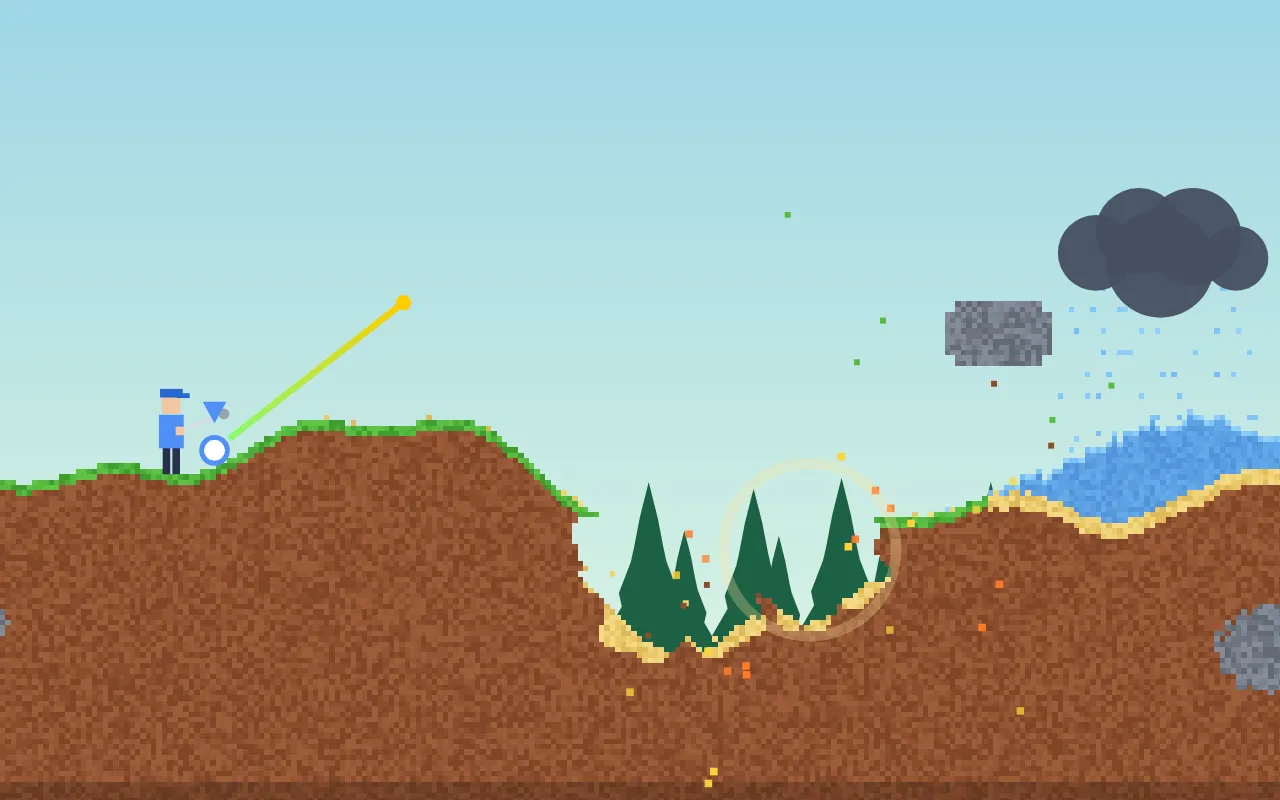
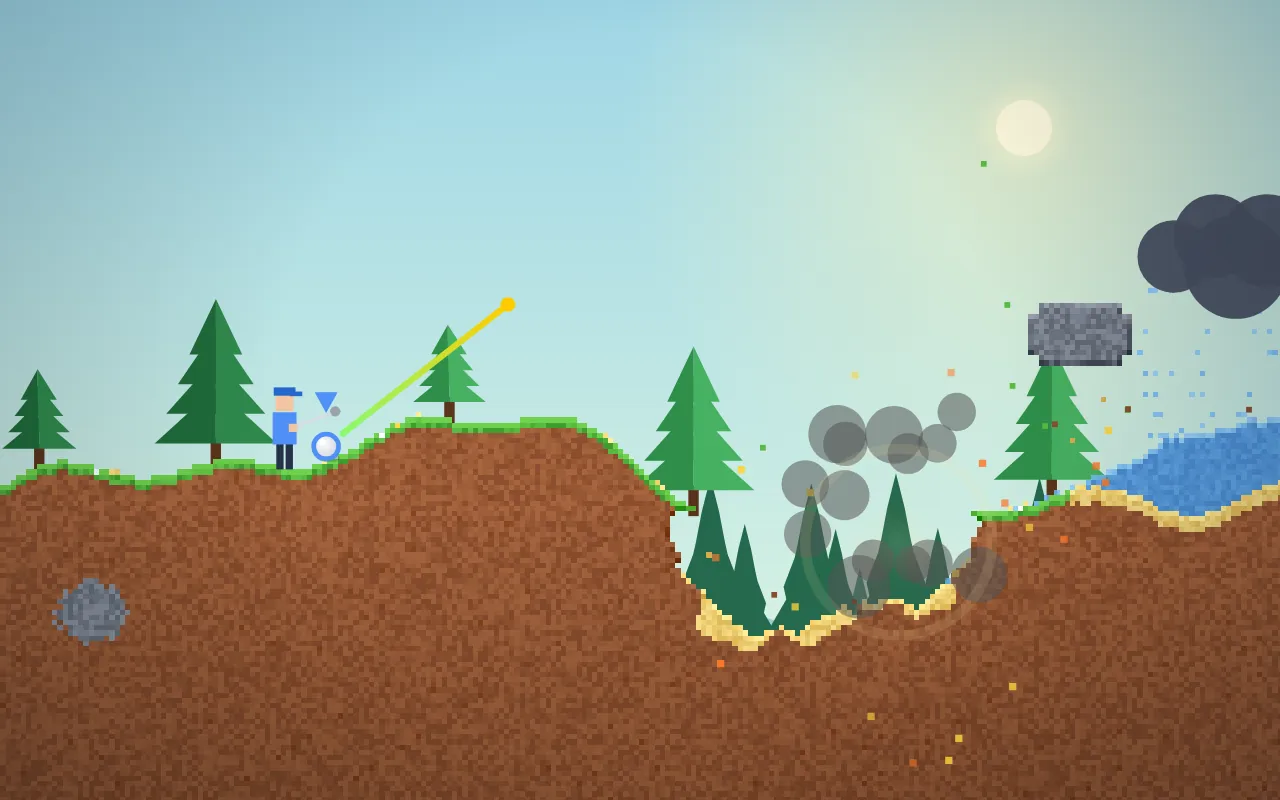
Sabotage-Golf: bessere Grafik (Terrain-Schattierung, Bäume, Sonne, Rauch, Ballspur)
Claude-Session: https://claude.ai/code/session_01YNm1FTXR8FrNy9XSTLjirF

diff --git a/games/sabotage-golf/index.html b/games/sabotage-golf/index.html
@@ -175,14 +175,42 @@ PAL[PAD] = [C(255, 93, 143), C(255, 210, 58), C(255, 93, 143), C(255, 210, 58)];
 PAL[WATER] = [C(52, 130, 224, 190), C(58, 138, 230, 190), C(46, 122, 214, 195), C(62, 146, 236, 185)];
 PAL.wtop = [C(120, 190, 250, 215), C(132, 198, 252, 215), C(110, 182, 246, 215), C(140, 204, 255, 210)];
 
+function adj(c, d) {
+  const r = Math.max(0, Math.min(255, (c & 255) + d)), g = Math.max(0, Math.min(255, ((c >> 8) & 255) + d)), b = Math.max(0, Math.min(255, ((c >> 16) & 255) + d));
+  return ((c & 0xff000000) | (b << 16) | (g << 8) | r) >>> 0;
+}
+const DROW = [];
+for (let y = 0; y < H; y++) {
+  const f = Math.max(.5, Math.min(1.08, 1.1 - (y - 140) / 150 * .55)), row = [];
+  for (const d of [[0, 0, 0], [10, 8, 6], [-9, -7, -5], [17, 14, 10]]) row.push(C(Math.min(255, (138 + d[0]) * f), Math.min(255, (80 + d[1]) * f), Math.min(255, (48 + d[2]) * f)));
+  DROW.push(row);
+}
 function colorOf(i) {
   const m = mat[i];
   if (m === AIR) return 0;
-  const v = vari[i];
-  if (m === WATER) return (i >= W && mat[i - W] === WATER) ? PAL[WATER][v] : PAL.wtop[v];
-  if (m === DIRT) return ((i / W) | 0) >= 196 ? PAL.dirt2[v] : PAL[DIRT][v];
-  if (m === PAD) return PAL[PAD][((i % W) >> 1) & 1 ? 1 : 0];
-  return PAL[m][v];
+  const v = vari[i], y = (i / W) | 0, x = i - y * W;
+  if (m === WATER) return (i >= W && mat[i - W] === WATER) ? adj(PAL[WATER][v], -Math.min(40, (y - 100) * .25 | 0)) : PAL.wtop[v];
+  if (m === PAD) return PAL[PAD][(x >> 1) & 1 ? 1 : 0];
+  const up = y > 0 ? mat[i - W] : STONE;
+  const upOpen = up === AIR || up === WATER;
+  const sideOpen = (x > 0 && mat[i - 1] === AIR) || (x < W - 1 && mat[i + 1] === AIR);
+  let c;
+  if (m === DIRT) {
+    c = DROW[y][v];
+    if (upOpen) c = adj(c, 18);
+    if ((v === 3 && (i * 2654435761 >>> 27) === 5) ) c = adj(c, -30);
+  } else if (m === GRASS) {
+    if (upOpen) {
+      c = C(112, 210, 78);
+      if ((i * 2654435761 >>> 26) === 3) c = [C(255, 255, 255), C(255, 214, 64), C(255, 140, 190)][v % 3];
+    } else c = PAL[GRASS][v];
+  } else {
+    c = PAL[m][v];
+    if (upOpen) c = adj(c, 22);
+  }
+  if (sideOpen && !upOpen) c = adj(c, -22);
+  if (y < H - 1 && mat[i + W] === AIR) c = adj(c, -34);
+  return c;
 }
 function wake(x, y) {
   const cx = x >> 4, cy = y >> 4;
@@ -194,6 +222,8 @@ function wake(x, y) {
 function setCell(i, m) {
   mat[i] = m; px[i] = colorOf(i);
   if (i + W < N) px[i + W] = colorOf(i + W);
+  if (i >= W) px[i - W] = colorOf(i - W);
+  const x = i % W; if (x > 0) px[i - 1] = colorOf(i - 1); if (x < W - 1) px[i + 1] = colorOf(i + 1);
   wdirty = true;
 }
 function cellAt(x, y) { return (x < 0 || x >= W || y < 0) ? AIR : (y >= H ? STONE : mat[y * W + x]); }
@@ -272,7 +302,7 @@ function mulberry(a) { return () => { a |= 0; a = a + 0x6D2B79F5 | 0; let t = Ma
 function surfY(x) { x = Math.max(0, Math.min(W - 1, Math.floor(x))); for (let y = 0; y < H; y++) { const m = mat[y * W + x]; if (m !== AIR) return y; } return H; }
 function groundBelow(x, y0) { x = Math.floor(x); for (let y = Math.floor(y0); y < H; y++) { if (solidI(x, y) || cellAt(x, y) === WATER) return y; } return H; }
 
-let hx = 735, gy = 150, tx = 45, tyG = 142;
+let hx = 735, gy = 150, tx = 45, tyG = 142, trees = [];
 function genWorld(seed) {
   const rnd = mulberry(seed);
   mat.fill(0); px.fill(0); stamp.fill(0); awake.fill(0);
@@ -317,6 +347,12 @@ function genWorld(seed) {
   }
   for (let y = gy - 6; y < gy; y++) for (let x = hx - 5; x <= hx + 4; x++) mat[y * W + x] = AIR;
   tx = 45; tyG = Math.round(h[tx]);
+  trees = [];
+  for (let x = 70 + rnd() * 20; x < W - 30; x += 16 + rnd() * 34) {
+    const xi = Math.floor(x), y = surfY(xi);
+    if (Math.abs(x - hx) < 34 || Math.abs(x - tx) < 22 || mat[y * W + xi] !== GRASS) continue;
+    trees.push({ x: xi, y, h: 15 + rnd() * 14, k: rnd() < .2 ? 1 : 0, ph: rnd() * 6 });
+  }
   for (let i = 0; i < N; i++) px[i] = colorOf(i);
   wdirty = true;
 }
@@ -517,7 +553,8 @@ function explode(cx, cy, r) {
     }
   }
   for (let i = 0; i < 26; i++) { const a = Math.random() * 6.28, sp = 40 + Math.random() * 120; addPart(cx, cy, Math.cos(a) * sp, Math.sin(a) * sp, .5 + Math.random() * .4, i % 2 ? '#ffd23a' : '#ff7a2a', 1.4, 'f'); }
-  shake = .6; flash = .5; snd('boom'); pops.push({ ring: true, x: cx, y: cy, r, t: 0 });
+  for (let i = 0; i < 14; i++) { const a = Math.random() * 6.28, sp = 10 + Math.random() * 40; addPart(cx + Math.cos(a) * r * .4, cy + Math.sin(a) * r * .4, Math.cos(a) * sp, Math.sin(a) * sp - 10, 1.2 + Math.random() * .8, '#555', 4 + Math.random() * 4, 's'); }
+  shake = .6; flash = .35; snd('boom'); pops.push({ ring: true, x: cx, y: cy, r, t: 0 });
 }
 function liftAir(x, y) { x = Math.floor(x); y = Math.floor(y); for (let k = 0; k < 80 && solidI(x, y); k++) y--; return y; }
 function fillDisc(cx, cy, r, m) {
@@ -599,7 +636,7 @@ function updateProps(dt) {
 function updateParts(dt) {
   for (let i = parts.length - 1; i >= 0; i--) {
     const p = parts[i];
-    p.life -= dt; p.vy += 260 * dt; p.x += p.vx * dt; p.y += p.vy * dt;
+    p.life -= dt; p.vy += (p.kind === 's' ? -30 : 260) * dt; p.x += p.vx * dt; p.y += p.vy * dt;
     let dead = p.life <= 0;
     if (p.kind === 'd') {
       if (p.x < 1 || p.x >= W - 1 || p.y >= H) dead = true;
@@ -1012,6 +1049,12 @@ function drawBg() {
   const s = cam.s, g = ctx.createLinearGradient(0, 0, 0, ch); g.addColorStop(0, '#9fd6e6'); g.addColorStop(.7, '#cfeee3'); g.addColorStop(1, '#e6f6ea');
   ctx.fillStyle = g; ctx.fillRect(0, 0, cw, ch);
   const tt = performance.now() / 1000;
+  const sg = ctx.createRadialGradient(cw * .8, ch * .16, 4, cw * .8, ch * .16, ch * .5); sg.addColorStop(0, 'rgba(255,250,215,.95)'); sg.addColorStop(.12, 'rgba(255,244,190,.55)'); sg.addColorStop(1, 'rgba(255,244,190,0)');
+  ctx.fillStyle = sg; ctx.fillRect(0, 0, cw, ch);
+  ctx.fillStyle = '#fffbe0'; ctx.beginPath(); ctx.arc(cw * .8, ch * .16, Math.max(16, ch * .035), 0, 6.3); ctx.fill();
+  { const hy0 = (112 - cam.y * .2) * s + ch / 2; ctx.fillStyle = '#9cc9d0'; ctx.beginPath(); ctx.moveTo(0, ch);
+    for (let x = 0; x <= cw; x += 10) { const wx = (x - cw / 2) / s + cam.x * .1; ctx.lineTo(x, hy0 - (Math.abs(Math.sin(wx * .008 + 2)) * 46 + Math.sin(wx * .03) * 5 + 14) * s); }
+    ctx.lineTo(cw, ch); ctx.fill(); }
   ctx.fillStyle = 'rgba(255,255,255,.85)';
   for (let k = 0; k < 6; k++) {
     const lx = ((k * 230 + tt * 3) % 1400) - 200, sx = (lx - cam.x * .12) * s + cw / 2, sy = (40 + (k % 3) * 22 - cam.y * .12) * s + ch / 2 - 40 * s * 0, w = (40 + k * 9) * s;
@@ -1023,8 +1066,9 @@ function drawBg() {
   const hy = (118 - cam.y * .3) * s + ch / 2;
   for (let x = 0; x <= cw; x += 12) { const wx = (x - cw / 2) / s + cam.x * .22; ctx.lineTo(x, hy - (Math.sin(wx * .012) * 16 + Math.sin(wx * .031 + 1) * 7 + 22) * s); }
   ctx.lineTo(cw, ch); ctx.fill();
-  drawTrees(.4, 140, .55, 13, 24, 40, '#2c7a5e', 3);
-  drawTrees(.65, 150, .8, 10, 22, 36, '#1d6044', 7);
+  drawTrees(.4, 140, .55, 13, 24, 40, '#3b8a6c', 3);
+  const fg = ctx.createLinearGradient(0, hy - 40 * s, 0, hy + 30 * s); fg.addColorStop(0, 'rgba(220,244,236,0)'); fg.addColorStop(1, 'rgba(220,244,236,.45)'); ctx.fillStyle = fg; ctx.fillRect(0, hy - 40 * s, cw, 70 * s);
+  drawTrees(.65, 150, .8, 10, 22, 36, '#24694c', 7);
 }
 function powerColor(p) { return p < .5 ? '#7dff7a' : p < .8 ? '#ffcc00' : '#ff4a3a'; }
 function drawFigure(p) {
@@ -1046,6 +1090,18 @@ function drawFigure(p) {
   ctx.restore();
 }
 function shade(hex, d) { const n = parseInt(hex.slice(1), 16), c = v => Math.max(0, Math.min(255, v + d)); return 'rgb(' + c(n >> 16) + ',' + c((n >> 8) & 255) + ',' + c(n & 255) + ')'; }
+function drawTree(tr, t) {
+  const x = tr.x + .5, y = tr.y, h = tr.h;
+  if (!solidI(tr.x, y) || solidI(tr.x, y - 3)) return;
+  const sw = Math.sin(t * 1.3 + tr.ph) * .25;
+  ctx.fillStyle = '#5a341c'; ctx.fillRect(x - 1, y - 4, 2, 6);
+  const tiers = 4, base = y - 3;
+  for (let k = 0; k < tiers; k++) {
+    const ty = base - h * k / tiers * .8, w = (h * .36) * (1 - k / (tiers + .6)) + 1.5, th = h / tiers * 1.5, sx = sw * k * .5;
+    ctx.fillStyle = tr.k ? '#2f8f4a' : '#1f6b3a'; ctx.beginPath(); ctx.moveTo(x - w + sx * .3, ty); ctx.lineTo(x + sx, ty - th); ctx.lineTo(x + sx, ty); ctx.fill();
+    ctx.fillStyle = tr.k ? '#47b062' : '#2f8a4c'; ctx.beginPath(); ctx.moveTo(x + w + sx * .3, ty); ctx.lineTo(x + sx, ty - th); ctx.lineTo(x + sx, ty); ctx.fill();
+  }
+}
 function drawFlag(t) {
   ctx.fillStyle = '#f4f4f4'; ctx.fillRect(hx - .35, gy - 28, .7, 28);
   const w = Math.sin(t * 4) * 1.2;
@@ -1076,6 +1132,7 @@ function render() {
   const s = cam.s, sx = shake > 0 ? (Math.random() - .5) * shake * 6 : 0, sy = shake > 0 ? (Math.random() - .5) * shake * 6 : 0;
   ctx.setTransform(dpr * s, 0, 0, dpr * s, dpr * (cw / 2 - cam.x * s + sx), dpr * (ch / 2 - cam.y * s + sy));
   ctx.imageSmoothingEnabled = false;
+  for (const tr of trees) if (Math.abs(tr.x - cam.x) < cw / s / 2 + 20) drawTree(tr, t);
   ctx.drawImage(wc, 0, 0);
   drawFlag(t);
   // Abschlag
@@ -1095,7 +1152,13 @@ function render() {
     for (const p of players) {
       const b = p.ball; if (b.hidden) continue;
       const act = p === players[cur] && phase !== 'gap' || p === players[cur];
-      ctx.fillStyle = '#fff'; ctx.strokeStyle = p.color; ctx.lineWidth = .9;
+      if (b.trail && b.trail.length > 1 && p === players[cur]) {
+        ctx.lineCap = 'round';
+        for (let k = 1; k < b.trail.length; k++) { ctx.strokeStyle = 'rgba(255,255,255,' + (k / b.trail.length * .5) + ')'; ctx.lineWidth = 1.4 * k / b.trail.length + .3; ctx.beginPath(); ctx.moveTo(b.trail[k - 1][0], b.trail[k - 1][1]); ctx.lineTo(b.trail[k][0], b.trail[k][1]); ctx.stroke(); }
+      }
+      const bg = ctx.createRadialGradient(b.x - .8, b.y - .9, .3, b.x, b.y, R); bg.addColorStop(0, '#fff'); bg.addColorStop(1, '#cfd6de');
+      ctx.fillStyle = 'rgba(0,0,0,.18)'; ctx.beginPath(); ctx.ellipse(b.x + .5, b.y + R * .9, R * .9, R * .35, 0, 0, 6.3); ctx.fill();
+      ctx.fillStyle = bg; ctx.strokeStyle = p.color; ctx.lineWidth = .9;
       ctx.globalAlpha = act ? 1 : .8; ctx.beginPath(); ctx.arc(b.x, b.y, R, 0, 6.3); ctx.fill(); ctx.stroke(); ctx.globalAlpha = 1;
     }
     const p = players[cur];
@@ -1113,14 +1176,22 @@ function render() {
   }
   for (const p of parts) {
     const a = Math.max(0, Math.min(1, p.life / p.ml * (p.kind === 'd' ? 3 : 1.6)));
+    if (p.kind === 's') { ctx.globalAlpha = Math.min(.55, p.life / p.ml * .7); ctx.fillStyle = p.col; ctx.beginPath(); ctx.arc(p.x, p.y, p.size * (1.6 - p.life / p.ml), 0, 6.3); ctx.fill(); continue; }
     ctx.globalAlpha = a; ctx.fillStyle = p.col; ctx.fillRect(p.x - p.size / 2, p.y - p.size / 2, p.size, p.size);
   }
   ctx.globalAlpha = 1;
   for (const o of pops) {
-    if (o.ring) { ctx.strokeStyle = 'rgba(255,230,160,' + (1 - o.t / .4) + ')'; ctx.lineWidth = 2; ctx.beginPath(); ctx.arc(o.x, o.y, o.r * (.5 + o.t / .4 * .8), 0, 6.3); ctx.stroke(); }
+    if (o.ring) {
+      const k = o.t / .4, fr = o.r * (.5 + k * .7), fg = ctx.createRadialGradient(o.x, o.y, 0, o.x, o.y, fr);
+      fg.addColorStop(0, 'rgba(255,255,230,' + (1 - k) + ')'); fg.addColorStop(.4, 'rgba(255,190,60,' + (.9 - k) + ')'); fg.addColorStop(1, 'rgba(255,80,20,0)');
+      ctx.fillStyle = fg; ctx.beginPath(); ctx.arc(o.x, o.y, fr, 0, 6.3); ctx.fill();
+      ctx.strokeStyle = 'rgba(255,230,160,' + (1 - o.t / .4) + ')'; ctx.lineWidth = 2; ctx.beginPath(); ctx.arc(o.x, o.y, o.r * (.5 + o.t / .4 * .8), 0, 6.3); ctx.stroke(); }
     else { ctx.fillStyle = o.col; ctx.globalAlpha = Math.max(0, 1 - o.t / 1.6); ctx.font = '700 7px system-ui'; ctx.textAlign = 'center'; ctx.fillText(o.text, o.x, o.y - o.t * 14); ctx.globalAlpha = 1; }
   }
   if (phase === 'sabPlace' && sab.cur) drawPreview(sab.cur.item);
+  ctx.setTransform(1, 0, 0, 1, 0, 0);
+  const vg = ctx.createRadialGradient(cv.width / 2, cv.height / 2, cv.height * .45, cv.width / 2, cv.height / 2, cv.width * .72); vg.addColorStop(0, 'rgba(0,0,0,0)'); vg.addColorStop(1, 'rgba(10,20,30,.28)');
+  ctx.fillStyle = vg; ctx.fillRect(0, 0, cv.width, cv.height);
   if (flash > 0) { ctx.setTransform(1, 0, 0, 1, 0, 0); ctx.fillStyle = 'rgba(255,240,200,' + flash * .5 + ')'; ctx.fillRect(0, 0, cv.width, cv.height); }
 }
 
@@ -1142,6 +1213,7 @@ function update(dt) {
     while (acc >= SUB && n < 16) { acc -= SUB; n++; for (const p of players) if (!p.ball.hidden) ballStep(p.ball, SUB); }
     if (acc > SUB * 16) acc = 0;
     if (pullAnim > 0) { pullAnim = Math.max(0, pullAnim - dt * 5); }
+    { const a = players[cur]; if (a) { const b = a.ball; if (!b.trail) b.trail = []; if (phase === 'fly' && !b.rest) { b.trail.push([b.x, b.y]); if (b.trail.length > 28) b.trail.shift(); } else if (b.trail.length) b.trail.shift(); } }
     updatePlay(dt);
   } else if (phase === 'sabPlace' || phase === 'sabFx') updateSab(dt);
   updateCam(dt);
